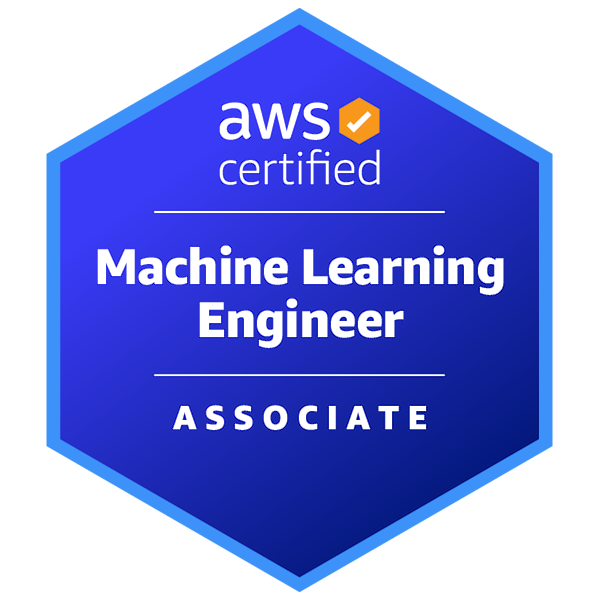
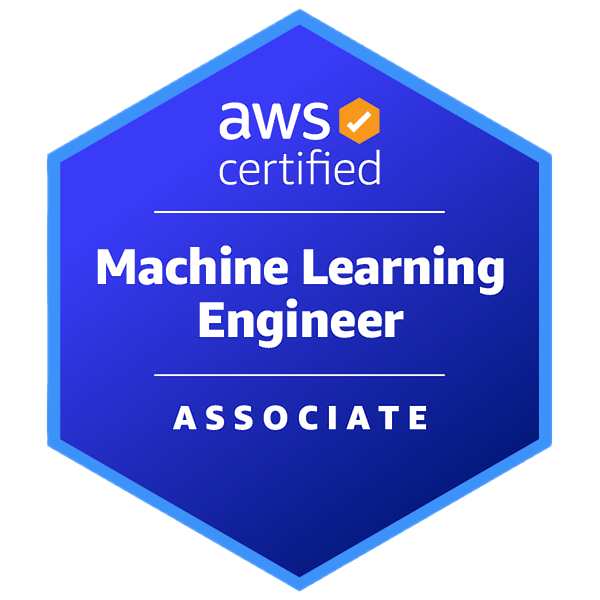
add AWS badge image and update post to use new image format

diff --git a/blog/content/post/my-journey-with-aws-mla-c01/index.pl.md b/blog/content/post/my-journey-with-aws-mla-c01/index.pl.md
@@ -60,20 +60,21 @@ Niemniej jednak nadal bym je zrobił, tylko w innej kolejności.
 Ja po przerobieniu egzaminów od TD (Tutorials Dojo) wróciłem ponownie do egzaminów Maareka (od momentu, kiedy je robiłem, minęły około 2 miesiące, wiecie, urlop i takie sprawy...) i na drugim podejściu uzyskałem kolejno: **81%, 86% i 81%**. Podczas kolejnego podejścia do robienia tych egzaminów robiłem kompleksowe notatki, zarówno z pytań, w których popełniłem błędy, jak i również tych poprawnych, bo czasem czujemy odpowiedź, ale nie jesteśmy pewni - ją też warto przeanalizować, zrozumieć i uzyskać pewność w wyborze.
 
 Po powyższym zapisałem się na egzamin i do egzaminu przez te kilka dni czytałem tylko pełną prezentację Maareka oraz własne notatki. Na egzaminie miałem dodatkowe 30 minut akomodacji ze względu na to, że nie jestem native'em i nie powiem, dosyć się przydało. Podczas pierwszego obiegu po pytaniach nie marnowałem dużo czasu i zaznaczałem taką odpowiedź, jaką czułem i rozumiałem najbardziej, ale dzięki temu udało mi się w czasie zrobić 2 takie przebiegi. Drugi już na spokojnie, analizując mocno każde pytanie, co pozwoliło mi przemyśleć odpowiedzi i finalnie zmienić 7-8 z nich, bo odkryłem kilka słów-kluczy zarówno w odpowiedziach, jak i pytaniach. I tak oto ok. 11h po egzaminie dostałem wiadomość, że zdałem z wynikiem 818 i jestem z niego całkiem dumny (tak samo jak z odznaki, którą otrzymałem od AWS-a)
-{{< figure src="badge.png" alt="AWS badge" width="150" >}}
 
-> Sam egzamin podsumowałbym jednym słowem: **tricky**. Wiele odpowiedzi wydaje się poprawnych, ale ma jedno słówko, które totalnie zmienia ich sens. Tak samo było z pytaniami. A więc polecam zdekomponować sobie w głowie pytania na składowe, dowiedzieć się, jakie są dokładnie wymagania, co chcemy osiągnąć i na czym się skupić.
+![](badge_s.png)
+
+Sam egzamin podsumowałbym jednym słowem: **tricky**. Wiele odpowiedzi wydaje się poprawnych, ale ma jedno słówko, które totalnie zmienia ich sens. Tak samo było z pytaniami. A więc polecam zdekomponować sobie w głowie pytania na składowe, dowiedzieć się, jakie są dokładnie wymagania, co chcemy osiągnąć i na czym się skupić.
 
 ## LLM-y w procesie uczenia
 
 Myślę, że warto też wspomnieć, jak wykorzystywałem AI podczas uczenia. Na wcześniej wspomnianym reddicie jest na ten temat mnóstwo wątków, a jak to się mówi "rabini są niezgodni".
 
-> Jak miałbym w jednym zdaniu podsumować, jak używałem AI, byłoby to słowo: **Dlaczego?**
+> Jak miałbym skrócić, jak używałem AI, byłoby to po prostu słowo: **Dlaczego?**
 
 Jeśli w testach było jakieś wytłumaczenie, ale czułem, że to za mało, to właśnie z tym pytaniem szedłem do Gemini albo ChataGPT. Na początku jeszcze sprawdzałem, czy odpowiedzi zgadzają się z dokumentacją AWSa, ale po jakimś czasie przestałem, bo odpowiedzi były raz za razem poprawne.
 Uważam, że super jest wykorzystywać te narzędzia właśnie w ten sposób czyli do obrazowania, lepszego opisywania i wyjaśniania. Do pokazywania przypadków użycia albo dawania prostych przykładów.
 
-> Co ważne, **ani razu nie użyłem LLM-ów, żeby dały mi poprawną odpowiedź na pytanie**. Wolałem sam zaznaczyć najbardziej logiczny wybór (jeśli nawet był zły) i dopiero *później* poprosić AI o wyjaśnienie. I taki sposób u mnie zadziałał rewelacyjnie.
+Co ważne, **ani razu nie użyłem LLM-ów, żeby dały mi poprawną odpowiedź na pytanie**. Wolałem sam zaznaczyć najbardziej logiczny wybór (jeśli nawet był zły) i dopiero *później* poprosić AI o wyjaśnienie. I taki sposób u mnie zadziałał rewelacyjnie.
 
 **Polecam Benedykt Huszcza**
 
